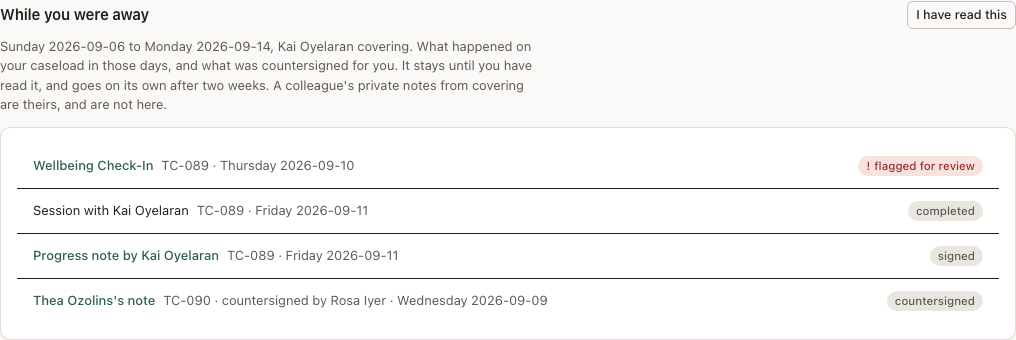
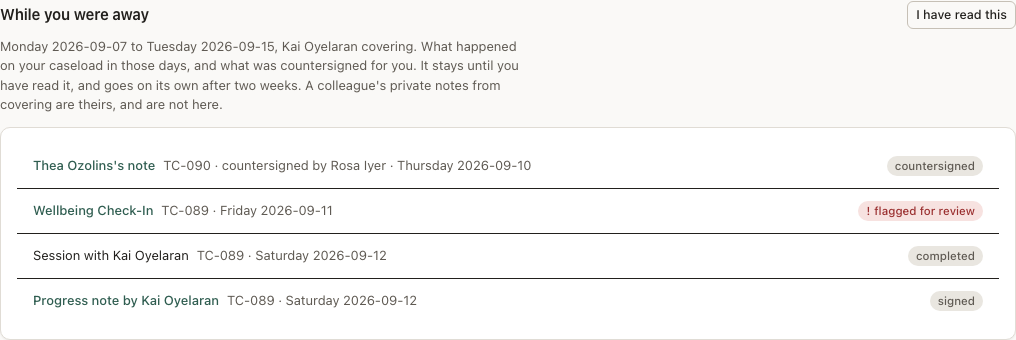
While you were away: one timeline, not four lists by kind
Merged flagged/sessions/notes/coSigned into a single array and sorted by
when each thing happened, instead of rendering four back.X.map() blocks
back to back (grouped by kind, oldest-flagged-first within each group).

Data layer (whileYouWereAway in leave-plan.ts) is unchanged — only the
page's rendering merges and sorts. Regenerated the README screenshot to
match; left the other five shots reverted (loose thread 9: clock-dated
seed stories drift them independent of this change).

Loose thread 18, NEXT.md.

diff --git a/app/(staff)/worklists/page.tsx b/app/(staff)/worklists/page.tsx
@@ -79,42 +79,47 @@ async function WorkListsPage() {
             </p>
             <Card className="p-0">
               <ul className="divide-y" style={{ borderColor: 'var(--border)' }}>
-                {back.flagged.map((s) => (
-                  <li key={s.id} className="flex flex-wrap items-center justify-between gap-2 px-4 py-3 text-body">
-                    <span>
-                      <Link href={`/submissions/${s.id}`} className="font-medium text-accent hover:underline">{s.template.name}</Link>
-                      <span className="ml-2 text-muted">{s.client.code} · {dayLabel(localDateOf(s.request.submittedAt!))}</span>
-                    </span>
-                    <Badge tone="danger" glyph="!">flagged for review</Badge>
-                  </li>
-                ))}
-                {back.sessions.map((a) => (
-                  <li key={a.id} className="flex flex-wrap items-center justify-between gap-2 px-4 py-3 text-body">
-                    <span>
-                      Session with {a.clinician.name}
-                      <span className="ml-2 text-muted">{a.client.code} · {dayLabel(localDateOf(a.startAt))}</span>
-                    </span>
-                    <Badge tone="neutral">{a.status.replace('_', ' ')}</Badge>
-                  </li>
-                ))}
-                {back.notes.map((n) => (
-                  <li key={n.id} className="flex flex-wrap items-center justify-between gap-2 px-4 py-3 text-body">
-                    <span>
-                      <Link href={`/notes/${n.id}`} className="font-medium text-accent hover:underline">Progress note by {n.author.name}</Link>
-                      <span className="ml-2 text-muted">{n.client.code} · {dayLabel(localDateOf(n.appointment.startAt))}</span>
-                    </span>
-                    <Badge tone={n.status === 'draft' ? 'warning' : 'neutral'}>{n.status}</Badge>
-                  </li>
-                ))}
-                {back.coSigned.map((n) => (
-                  <li key={n.id} className="flex flex-wrap items-center justify-between gap-2 px-4 py-3 text-body">
-                    <span>
-                      <Link href={`/notes/${n.id}`} className="font-medium text-accent hover:underline">{n.author.name}&apos;s note</Link>
-                      <span className="ml-2 text-muted">{n.client.code} · countersigned by {n.coSignedBy!.name} · {dayLabel(localDateOf(n.coSignedAt!))}</span>
-                    </span>
-                    <Badge tone="neutral">countersigned</Badge>
-                  </li>
-                ))}
+                {/* Four kinds, one timeline: sorted by when it happened, not grouped by what it was. */}
+                {[
+                  ...back.flagged.map((s) => ({ key: `flagged-${s.id}`, at: s.request.submittedAt!, node: (
+                    <li key={`flagged-${s.id}`} className="flex flex-wrap items-center justify-between gap-2 px-4 py-3 text-body">
+                      <span>
+                        <Link href={`/submissions/${s.id}`} className="font-medium text-accent hover:underline">{s.template.name}</Link>
+                        <span className="ml-2 text-muted">{s.client.code} · {dayLabel(localDateOf(s.request.submittedAt!))}</span>
+                      </span>
+                      <Badge tone="danger" glyph="!">flagged for review</Badge>
+                    </li>
+                  ) })),
+                  ...back.sessions.map((a) => ({ key: `session-${a.id}`, at: a.startAt, node: (
+                    <li key={`session-${a.id}`} className="flex flex-wrap items-center justify-between gap-2 px-4 py-3 text-body">
+                      <span>
+                        Session with {a.clinician.name}
+                        <span className="ml-2 text-muted">{a.client.code} · {dayLabel(localDateOf(a.startAt))}</span>
+                      </span>
+                      <Badge tone="neutral">{a.status.replace('_', ' ')}</Badge>
+                    </li>
+                  ) })),
+                  ...back.notes.map((n) => ({ key: `note-${n.id}`, at: n.appointment.startAt, node: (
+                    <li key={`note-${n.id}`} className="flex flex-wrap items-center justify-between gap-2 px-4 py-3 text-body">
+                      <span>
+                        <Link href={`/notes/${n.id}`} className="font-medium text-accent hover:underline">Progress note by {n.author.name}</Link>
+                        <span className="ml-2 text-muted">{n.client.code} · {dayLabel(localDateOf(n.appointment.startAt))}</span>
+                      </span>
+                      <Badge tone={n.status === 'draft' ? 'warning' : 'neutral'}>{n.status}</Badge>
+                    </li>
+                  ) })),
+                  ...back.coSigned.map((n) => ({ key: `cosign-${n.id}`, at: n.coSignedAt!, node: (
+                    <li key={`cosign-${n.id}`} className="flex flex-wrap items-center justify-between gap-2 px-4 py-3 text-body">
+                      <span>
+                        <Link href={`/notes/${n.id}`} className="font-medium text-accent hover:underline">{n.author.name}&apos;s note</Link>
+                        <span className="ml-2 text-muted">{n.client.code} · countersigned by {n.coSignedBy!.name} · {dayLabel(localDateOf(n.coSignedAt!))}</span>
+                      </span>
+                      <Badge tone="neutral">countersigned</Badge>
+                    </li>
+                  ) })),
+                ]
+                  .sort((a, b) => +a.at - +b.at)
+                  .map((item) => item.node)}
                 {back.flagged.length + back.sessions.length + back.notes.length + back.coSigned.length === 0 && (
                   <li className="px-4 py-3 text-body text-muted">Nothing on your caseload needed anybody while you were away.</li>
                 )}
